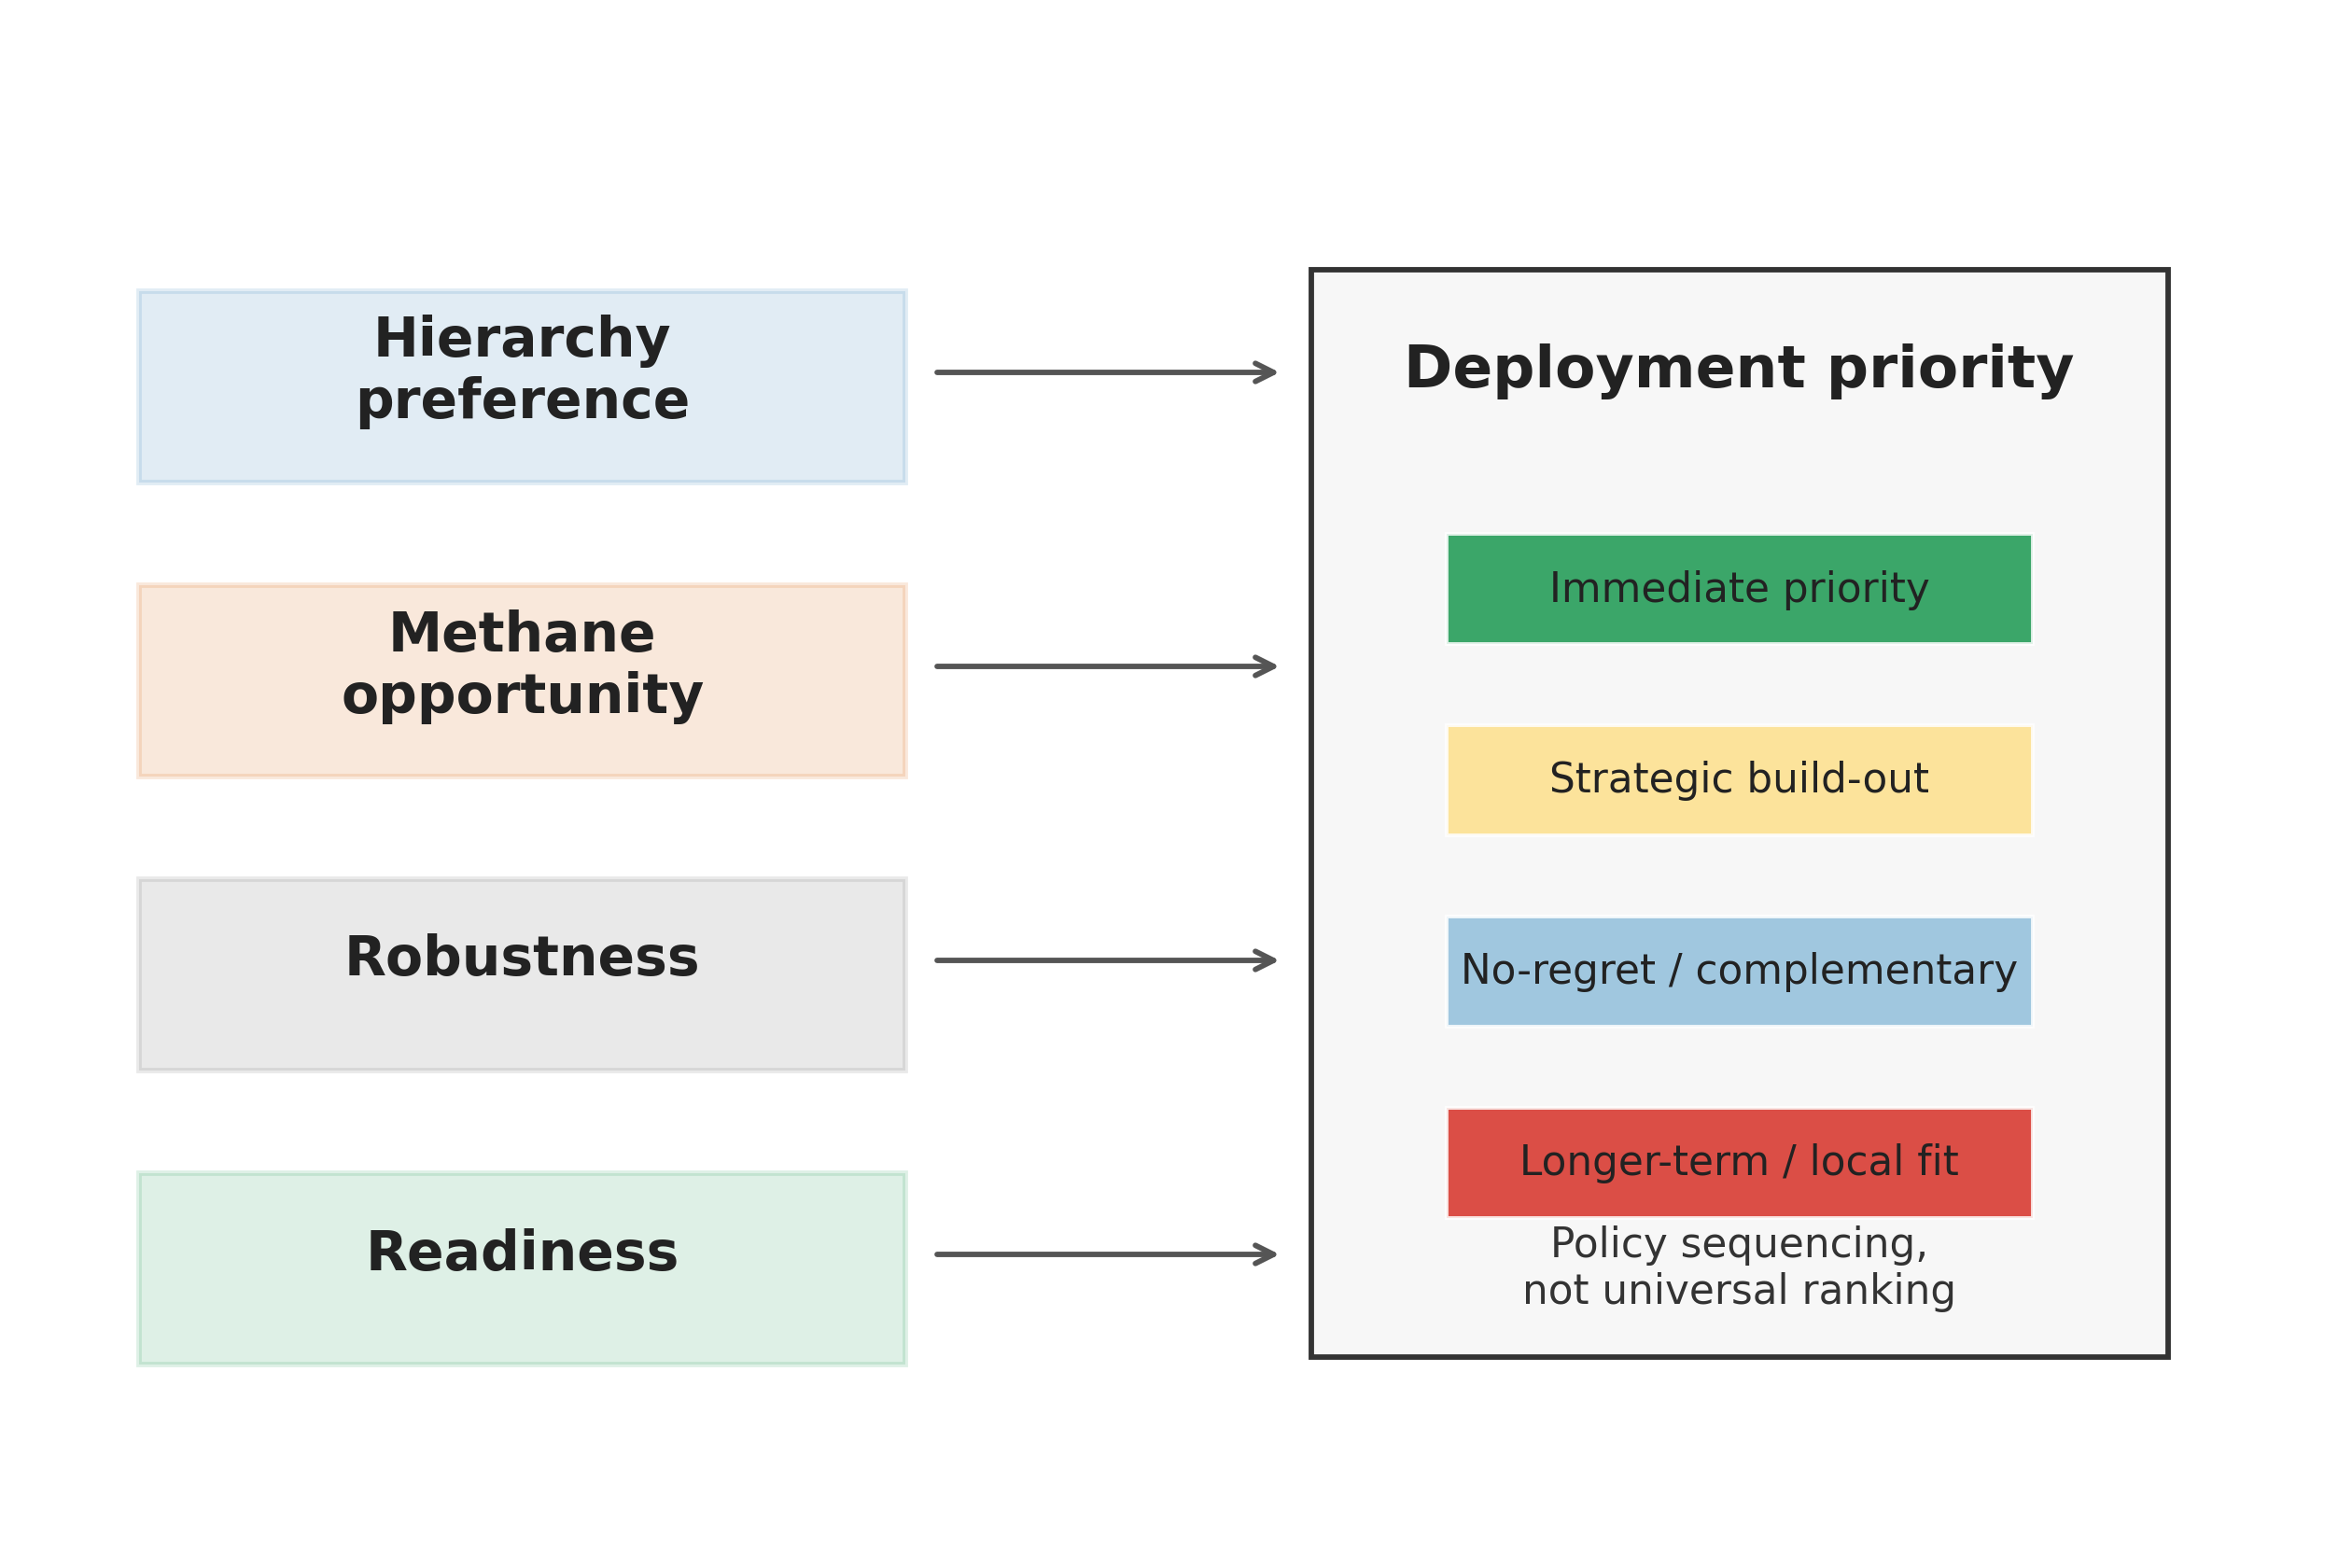
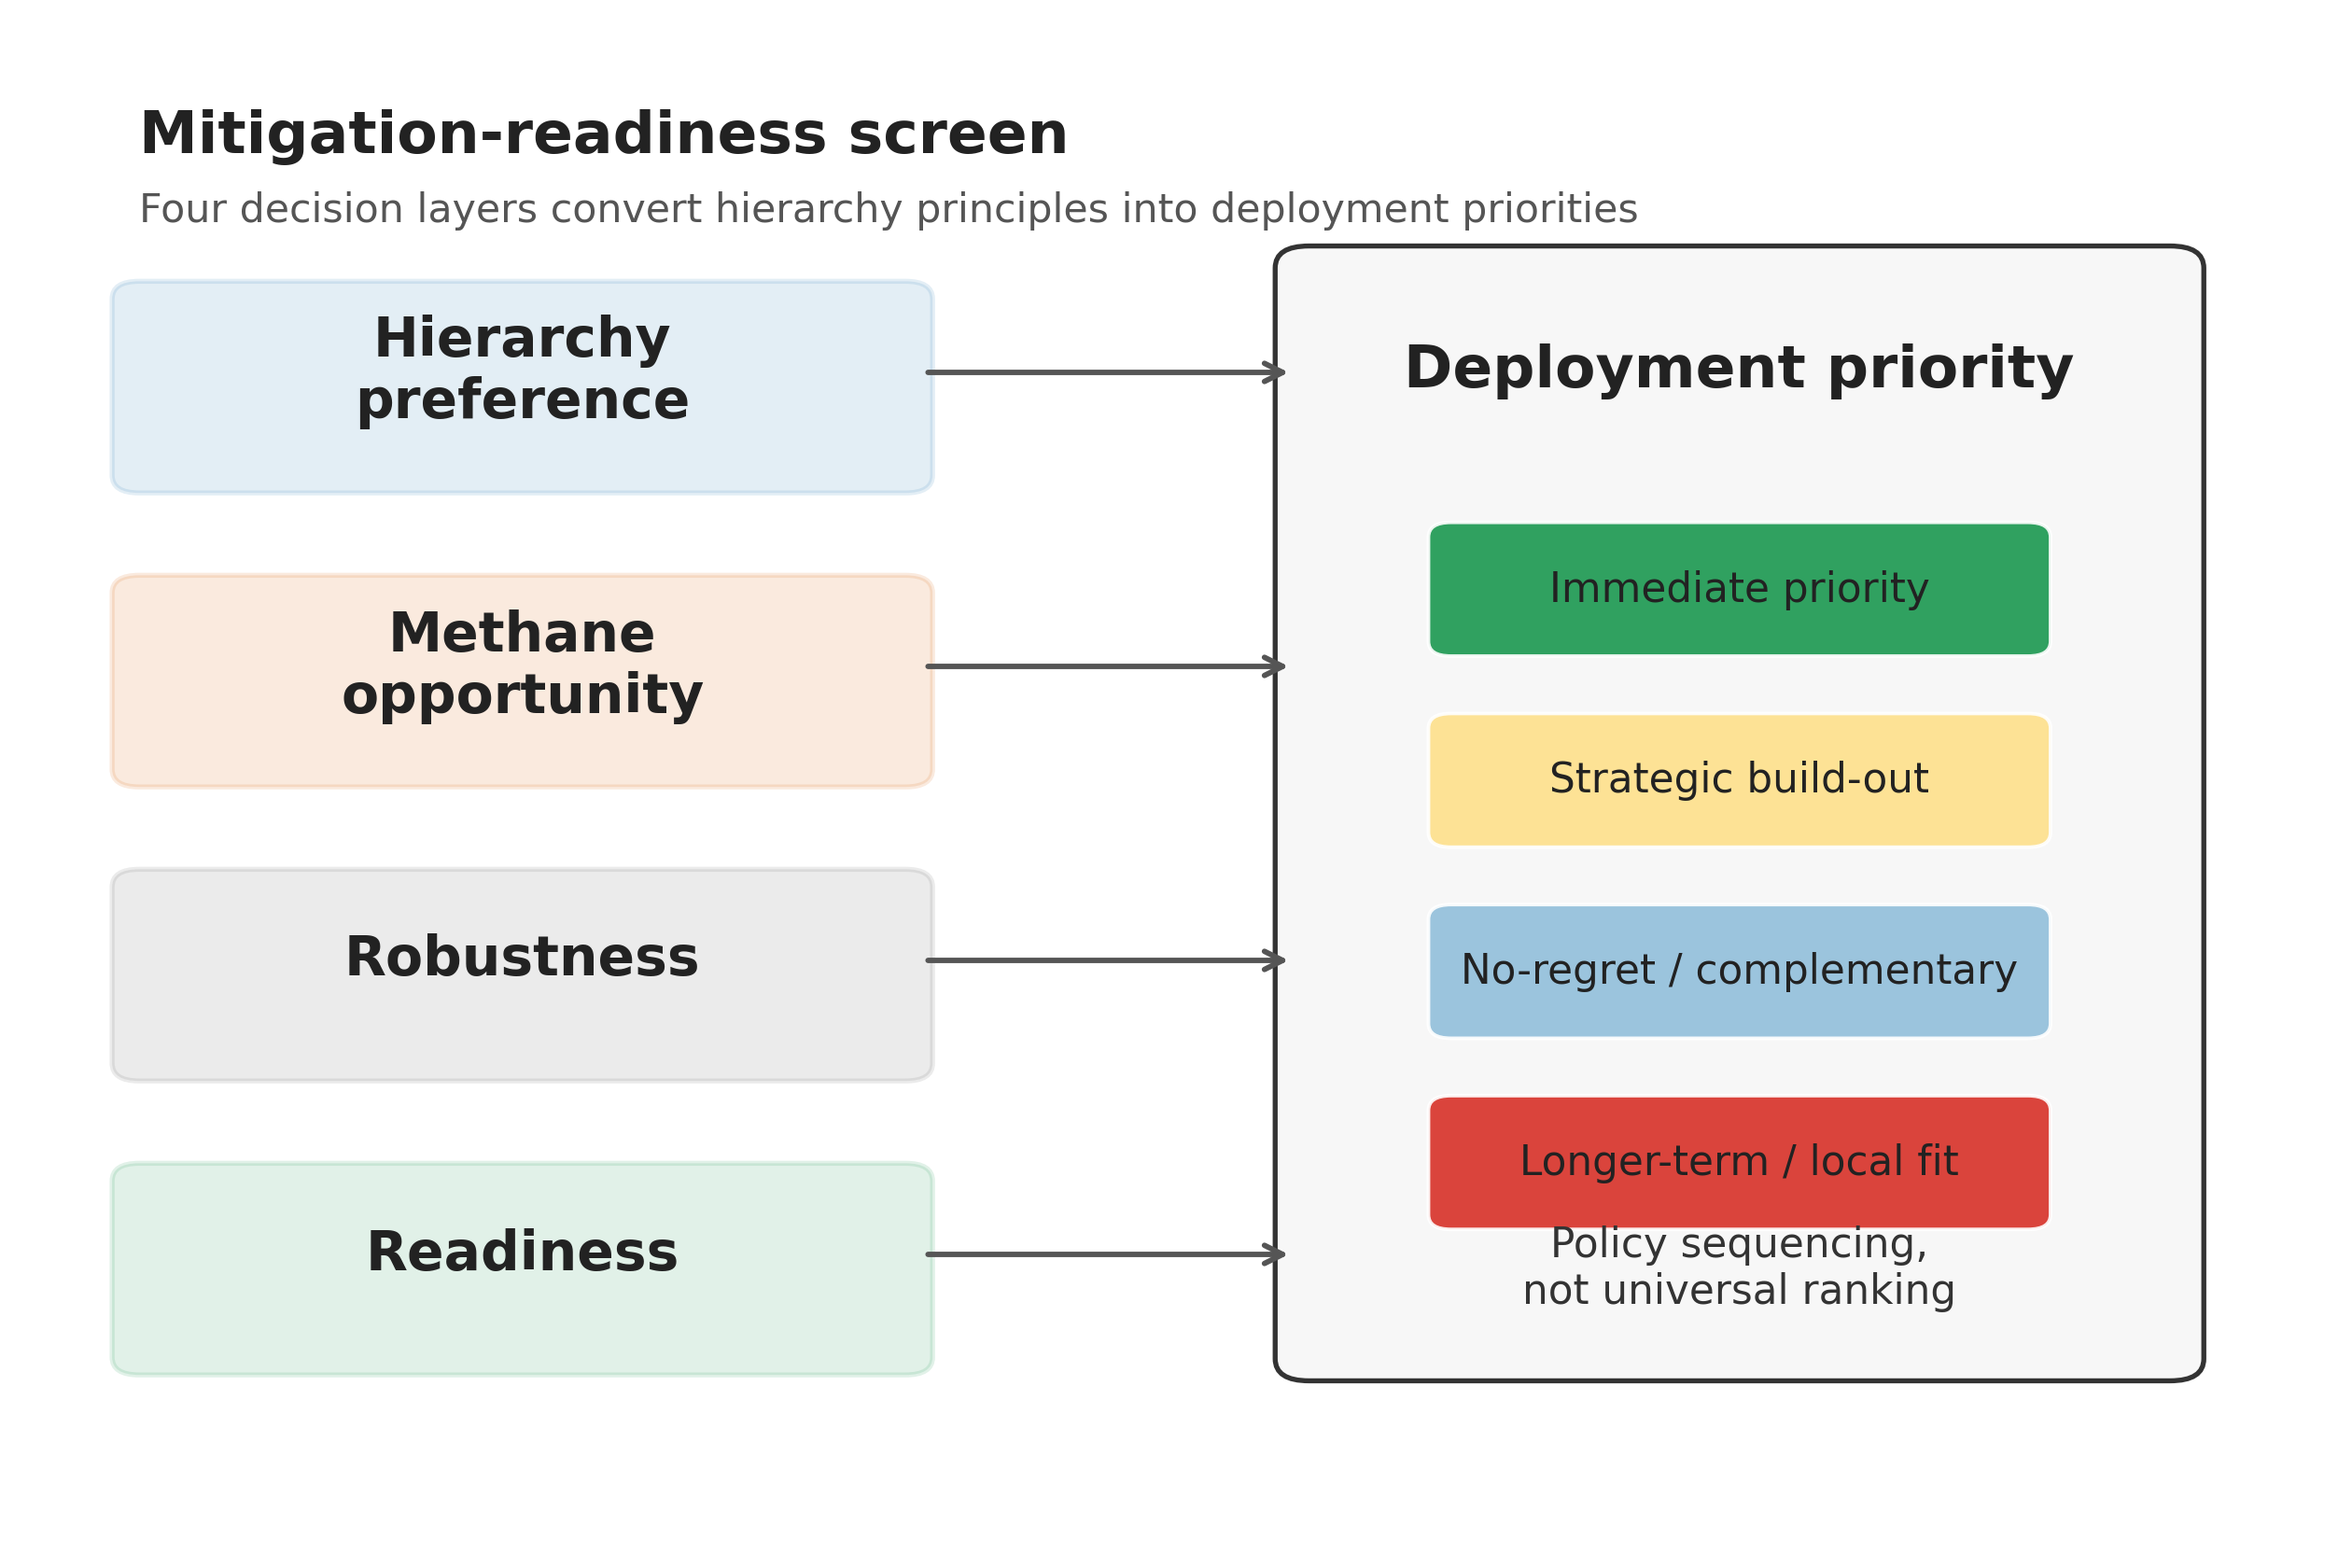
Sharpen policy framing and framework figure

diff --git a/scripts/build_figure_drafts.py b/scripts/build_figure_drafts.py
@@ -2,6 +2,7 @@ from pathlib import Path
 
 import matplotlib.pyplot as plt
 import pandas as pd
+from matplotlib.patches import FancyBboxPatch
 
 
 ROOT = Path(__file__).resolve().parents[1]
@@ -67,18 +68,38 @@ def figure_conceptual_framework() -> None:
     y_positions = [0.78, 0.58, 0.38, 0.18]
     colors = ["#2C7FB8", "#D95F02", "#666666", "#1A9850"]
 
+    ax.text(
+        0.04,
+        0.94,
+        "Mitigation-readiness screen",
+        fontsize=13,
+        weight="bold",
+        color="#222222",
+        ha="left",
+        va="center",
+    )
+    ax.text(
+        0.04,
+        0.89,
+        "Four decision layers convert hierarchy principles into deployment priorities",
+        fontsize=8.8,
+        color="#555555",
+        ha="left",
+        va="center",
+    )
+
     for title, y, color in zip(left, y_positions, colors):
-        ax.add_patch(
-            plt.Rectangle(
-                (0.04, y - 0.075),
-                0.34,
-                0.13,
-                facecolor=color,
-                alpha=0.14,
-                edgecolor=color,
-                linewidth=1.2,
-            )
+        box = FancyBboxPatch(
+            (0.04, y - 0.07),
+            0.34,
+            0.12,
+            boxstyle="round,pad=0.012,rounding_size=0.012",
+            facecolor=color,
+            alpha=0.13,
+            edgecolor=color,
+            linewidth=1.1,
         )
+        ax.add_patch(box)
         ax.text(
             0.21,
             y,
@@ -93,19 +114,19 @@ def figure_conceptual_framework() -> None:
             "",
             xy=(0.55, y),
             xytext=(0.39, y),
-            arrowprops=dict(arrowstyle="->", lw=1.2, color="#555555"),
+            arrowprops=dict(arrowstyle="->", lw=1.2, color="#555555", shrinkA=0, shrinkB=0),
         )
 
-    ax.add_patch(
-        plt.Rectangle(
-            (0.56, 0.11),
-            0.38,
-            0.74,
-            facecolor="#F7F7F7",
-            edgecolor="#333333",
-            linewidth=1.2,
-        )
+    output = FancyBboxPatch(
+        (0.56, 0.11),
+        0.38,
+        0.74,
+        boxstyle="round,pad=0.016,rounding_size=0.015",
+        facecolor="#F7F7F7",
+        edgecolor="#333333",
+        linewidth=1.1,
     )
+    ax.add_patch(output)
     ax.text(
         0.75,
         0.77,
@@ -123,17 +144,17 @@ def figure_conceptual_framework() -> None:
     ]
     for i, (label, color) in enumerate(priorities):
         y = 0.64 - i * 0.13
-        ax.add_patch(
-            plt.Rectangle(
-                (0.62, y - 0.045),
-                0.26,
-                0.075,
-                facecolor=color,
-                alpha=0.85,
-                edgecolor="white",
-                linewidth=0.8,
-            )
+        priority_box = FancyBboxPatch(
+            (0.62, y - 0.045),
+            0.26,
+            0.075,
+            boxstyle="round,pad=0.008,rounding_size=0.01",
+            facecolor=color,
+            alpha=0.9,
+            edgecolor="white",
+            linewidth=0.8,
         )
+        ax.add_patch(priority_box)
         ax.text(0.75, y - 0.008, label, ha="center", va="center", fontsize=9, color="#222222")
     ax.text(
         0.75,

diff --git a/manuscript/nature_sustainability_article_draft.md b/manuscript/nature_sustainability_article_draft.md
@@ -10,11 +10,11 @@ Andante Hadi Pandyaswargo1*, Hanifrahmawan Sudibyo2, Wiratni Budhijanto2 and Hir
 
 ## Abstract
 
-The waste hierarchy prioritizes prevention, but offers little guidance on how countries should sequence unavoidable organic waste already generating methane. Here we operationalize the hierarchy by linking methane opportunity, energy substitution, uncertainty and implementation readiness across 217 countries and economies. Countries generated an estimated 1.064 billion tonnes of food and green municipal waste in 2022; 516 million tonnes were landfilled, dumped, uncollected or unaccounted in countries with treatment data, creating a first-pass methane burden of 514 Mt CO2-equivalent yr-1. Prevention gives the largest deterministic global 100-year climate benefit and is the most robust country-level winner in Monte Carlo analysis. Yet anaerobic digestion with biomethane/bio-CNG remains a spatially specific recovery opportunity. A readiness typology identifies 46 immediate-priority countries/economies and 24 strategic build-out cases, converting hierarchy principles into a global policy-sequencing tool.
+Organic municipal waste creates a near-term climate-finance problem: large methane opportunities exist, but countries differ sharply in what they can deploy. Here we operationalize the waste hierarchy by linking methane opportunity, energy substitution, uncertainty and implementation readiness across 217 countries and economies. Countries generated an estimated 1.064 billion tonnes of food and green municipal waste in 2022; 516 million tonnes were landfilled, dumped, uncollected or unaccounted in countries with treatment data, creating a first-pass methane burden of 514 Mt CO2-equivalent yr-1. Prevention gives the largest deterministic global 100-year climate benefit and is the most robust country-level winner in Monte Carlo analysis. Yet anaerobic digestion with biomethane/bio-CNG remains a spatially specific recovery opportunity. A readiness typology identifies 46 immediate-priority countries/economies and 24 strategic build-out cases, converting hierarchy principles into a policy-sequencing tool for prevention, methane avoidance and recovery investment.
 
 Food waste begins as a food-system failure, but it often becomes a methane problem. Food systems account for roughly one-third of anthropogenic greenhouse-gas emissions, and food loss and waste contributes about 8-10% of global emissions through the land, energy, water, fertilizer, processing, transport and retail systems used to produce food that is never consumed [1-6]. Discard does not end that climate burden. When food and green waste enter landfills, dumps or uncollected waste streams, anaerobic decomposition can release methane, turning a food-system inefficiency into a near-term climate, sanitation and circular-economy challenge [7-9].
 
-Policy has a clear first answer: prevent waste. The waste hierarchy places prevention above reuse, recycling, recovery and disposal, and for food waste that order is compelling because prevention avoids both upstream production burdens and downstream methane risks [10-13]. But countries do not plan from a blank slate. Many already manage large organic waste flows with incomplete collection, limited source separation, uncontrolled disposal and uneven energy systems. In those settings, the hierarchy gives direction but not a full investment rule. It does not say where prevention should be paired with composting, where anaerobic digestion should displace landfill methane, or where biomethane infrastructure is realistic.
+Policy has a clear first answer: prevent waste. The waste hierarchy places prevention above reuse, recycling, recovery and disposal, and for food waste that order is compelling because prevention avoids both upstream production burdens and downstream methane risks [10-13]. But countries do not plan from a blank slate. Many already manage large organic waste flows with incomplete collection, limited source separation, uncontrolled disposal and uneven energy systems. In those settings, the hierarchy gives direction but not a full investment rule. It does not say where prevention should be paired with composting, where anaerobic digestion should displace landfill methane, or where biomethane infrastructure is realistic. Without such deployment logic, countries and funders can misallocate limited methane-finance resources by treating readiness as uniform or by defaulting to a single preferred technology.
 
 The treatment pathways create value in different ways. Composting can avoid disposal methane and return organic matter and nutrients to soils, but its climate balance depends on process emissions, compost quality, soil response and avoided fertilizer production [14-19]. Anaerobic digestion can avoid disposal methane and produce biogas, but its benefit changes with grid carbon intensity, heat or fuel displacement, methane leakage and digestate management [14-16,20-23]. Upgraded biomethane or bio-CNG can connect waste systems to transport-fuel substitution, but only where compression, storage, distribution, vehicles and institutions exist or can be built [20,21]. Prevention acts further upstream than any treatment pathway, but its achievable rate and avoided production burden vary across food systems, incomes, supply chains and behaviours.
 
@@ -64,7 +64,7 @@ The framework also explains why recovery pathways still matter when prevention l
 
 ### Readiness turns potential into policy sequencing
 
-For climate finance and national methane strategies, the readiness typology matters as much as the pathway ranking. Immediate-priority countries combine high mitigation opportunity with stronger implementation conditions. Strategic build-out countries may offer large long-term benefits, but they first need collection, source separation, biological treatment capacity, gas upgrading, vehicle or fuel offtake and monitoring. No-regret or complementary countries can still justify lower-complexity interventions, including prevention programs and composting, even where the climate-only mitigation total is smaller. Longer-term or local-fit countries should not be ignored, but high theoretical potential should not be mistaken for near-term feasibility. Because readiness thresholds and component weights are screening choices rather than empirical breakpoints, we test threshold and weighting variation in the Supplementary Information; the counts shift, but the policy interpretation remains a sequencing tool rather than a fixed country ranking.
+For climate finance, Global Methane Pledge implementation and national methane strategies, the readiness typology matters as much as the pathway ranking. Immediate-priority countries combine high mitigation opportunity with stronger implementation conditions and could serve as screening candidates for methane-finance pipelines, subject to local feasibility, safeguards and project-level assessment. Strategic build-out countries may offer large long-term benefits, but they first need collection, source separation, biological treatment capacity, gas upgrading, vehicle or fuel offtake and monitoring. No-regret or complementary countries can still justify lower-complexity interventions, including prevention programs and composting, even where the climate-only mitigation total is smaller. Longer-term or local-fit countries should not be ignored, but high theoretical potential should not be mistaken for near-term feasibility. Because readiness thresholds and component weights are screening choices rather than empirical breakpoints, we test threshold and weighting variation in the Supplementary Information; the counts shift, but the policy interpretation remains a sequencing tool rather than a fixed country ranking.
 
 ### Limits define the next evidence layer
 